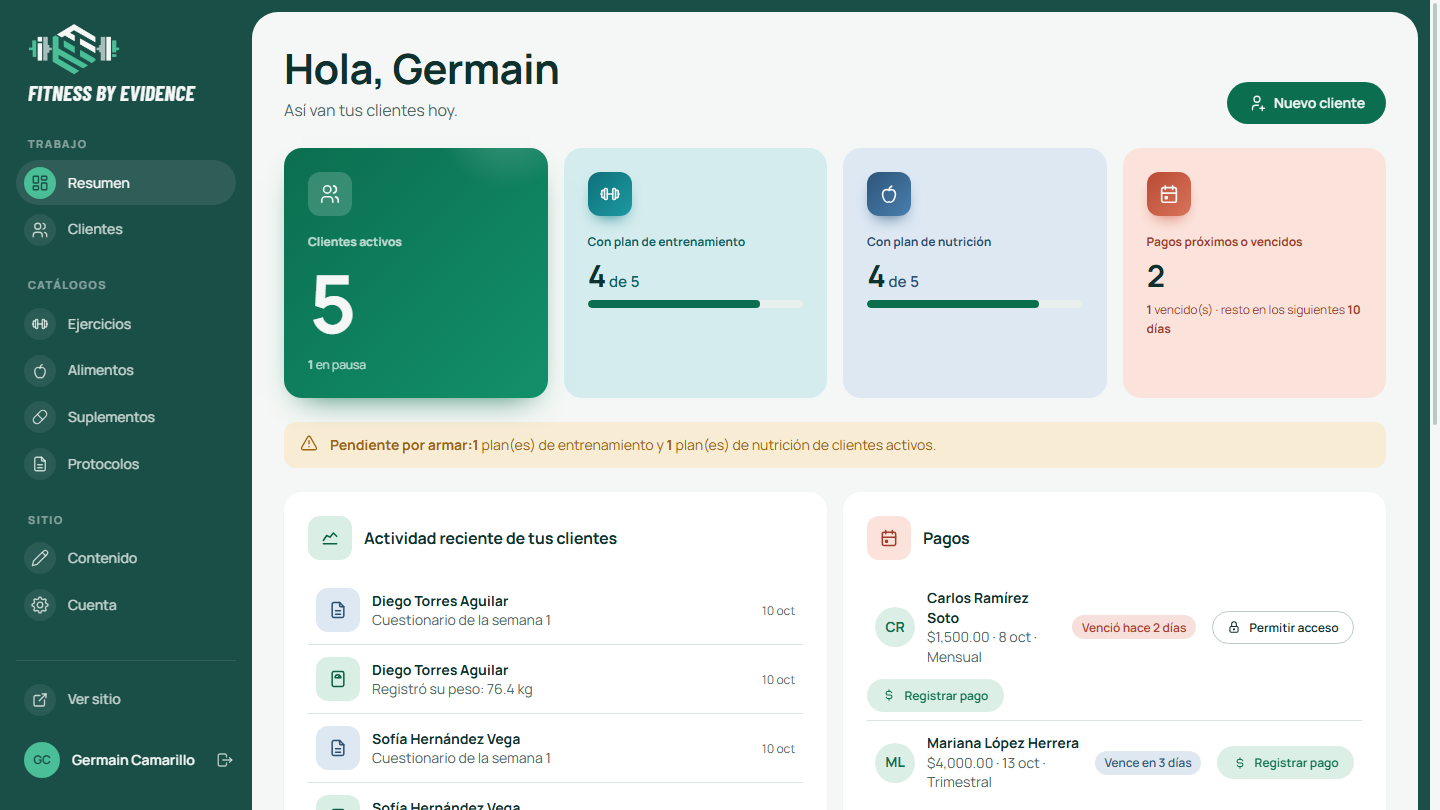
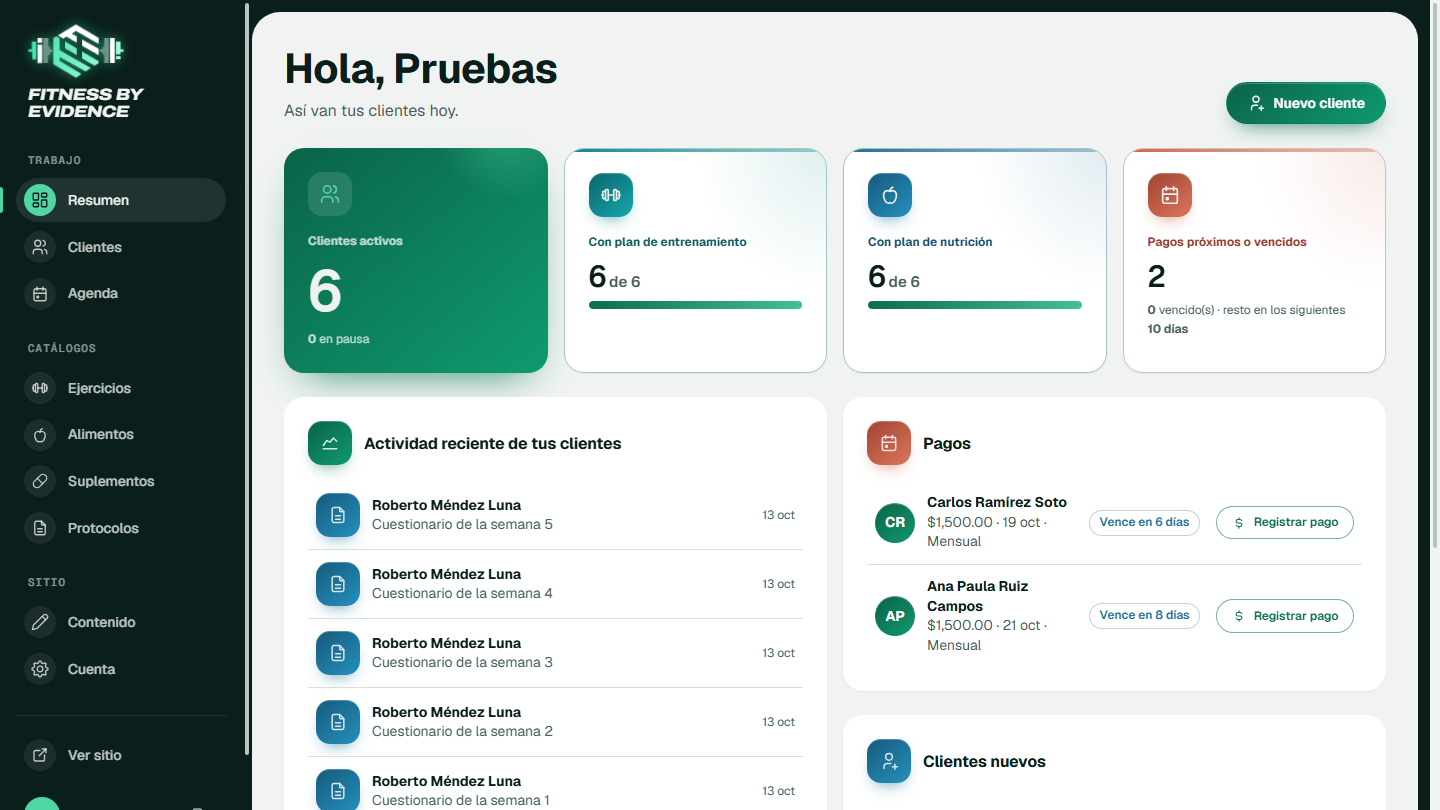
Refresh the Fitness by Evidence project with the redesigned platform
New screenshots of the dark landing, coach panel, session agenda and client portal,
and an updated description that covers scheduling and the animated brand mark.

diff --git a/src/app/core/data/development-projects.ts b/src/app/core/data/development-projects.ts
@@ -47,11 +47,11 @@ export const DEVELOPMENT_PROJECTS: DevelopmentProject[] = [
     title: "Fitness by Evidence Coaching Platform",
     type: "Full Stack Application",
     shortDescription:
-      "Coaching platform with a public site, a coach panel for training and nutrition plans, and a private portal for each client.",
+      "Coaching platform with a public site, a coach panel for training plans, nutrition plans and session scheduling, and a private portal for each client.",
     problem:
       "An online fitness coach built every client's training and nutrition plan by hand in spreadsheets, with no single place for clients to see their plan or report progress.",
     solution:
-      "Built a server-rendered Angular site, coach panel and client portal on an Express REST API and PostgreSQL. It calculates calories, macros and training volume, and explains each exercise with a figure animated in code.",
+      "Built a server-rendered Angular site, coach panel and client portal on an Express REST API and PostgreSQL. It calculates calories, macros and training volume, schedules video-call sessions that clients join from their portal, and explains each exercise with a figure animated in code. The brand mark is drawn in SVG and assembles itself on load.",
     technologies: [
       "Angular",
       "TypeScript",
@@ -75,10 +75,10 @@ export const DEVELOPMENT_PROJECTS: DevelopmentProject[] = [
     ],
     brand: {
       primary: "#0b6e4f",
-      secondary: "#0e312e",
-      light: "#f4f7f5",
-      accent: "#617a7a",
-      dark: "#325c82"
+      secondary: "#0a1f1c",
+      light: "#f0f3f1",
+      accent: "#4fd6a4",
+      dark: "#1f6f94"
     },
     website: "https://fitnessbyevidence.netlify.app/",
     github: "https://github.com/BrunoDunay/Panel-administrativo-web-Fitness.git"
